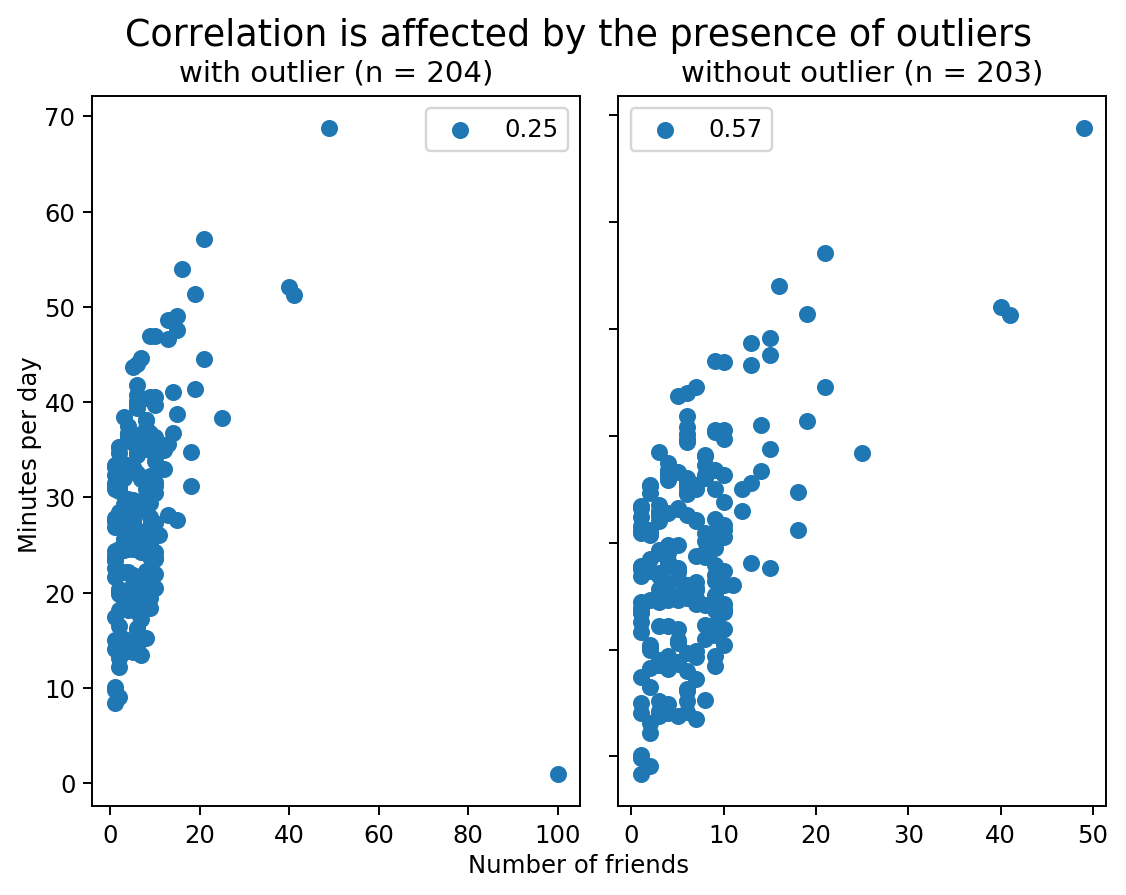
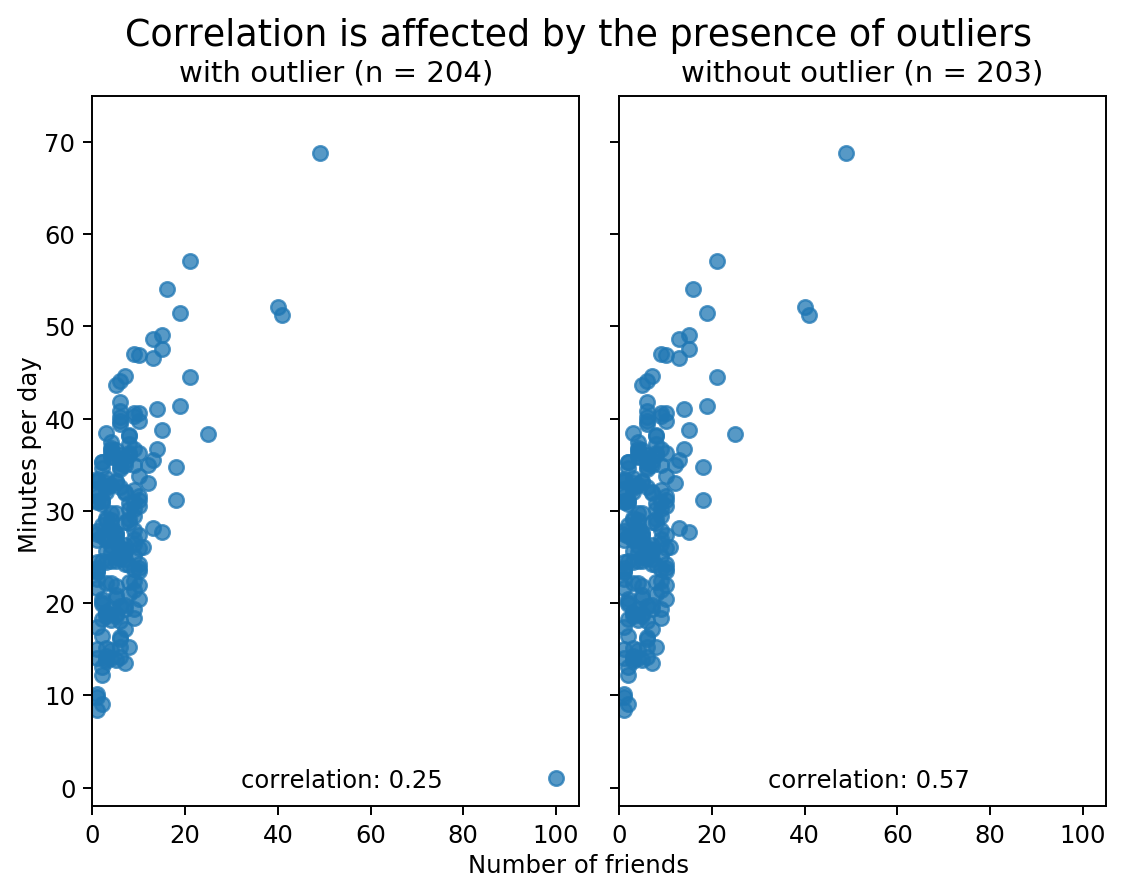
Reformat visual so that axes are the same

diff --git a/linear_regression/statistics.py b/linear_regression/statistics.py
@@ -388,18 +388,19 @@ corr_wo_outlier = round(correlation(xs=num_friends_clean,
                         ndigits=2)
 # visualize ----
 fig, axs = plt.subplots(nrows=1, ncols=2)
-axs[0].scatter(x=num_friends, 
-               y=daily_minutes,
-               label=corr_w_outlier)
+axs[0].scatter(x=num_friends, y=daily_minutes, alpha=0.75)
 axs[0].set_title(f"with outlier (n = {len(num_friends)})")
-axs[0].legend()
-axs[1].scatter(x=num_friends_clean,
-               y=daily_minutes_clean,
-               label=corr_wo_outlier)
+axs[0].text(32, 0, f"correlation: {corr_w_outlier}", fontsize=10)
+axs[1].scatter(x=num_friends_clean, y=daily_minutes_clean, alpha=0.75)
 axs[1].set_title(f"without outlier (n = {len(num_friends_clean)})")
-axs[1].legend()
+axs[1].text(32, 0, f"correlation: {corr_wo_outlier}", fontsize=10)
 # remove the y-axis tick marks from the second subplot
 axs[1].tick_params(labelleft=False) 
+# set xlim and ylim for each subplot
+axs[0].set_xlim(0, 105)
+axs[0].set_ylim(-2, 75)
+axs[1].set_xlim(0, 105)
+axs[1].set_ylim(-2, 75)
 # assign an overall title
 fig.suptitle("Correlation is affected by the presence of outliers", 
              fontsize=15, 
